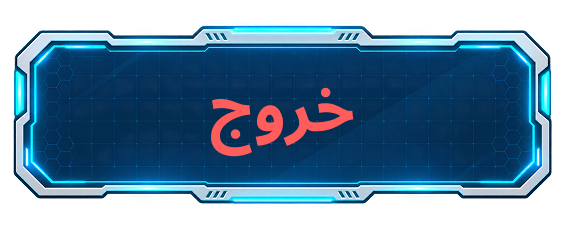
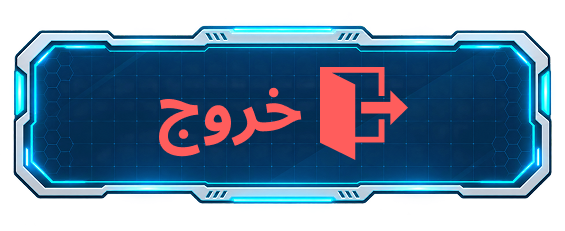
Use the supplied exit button on welcome screen

Changed region(s): [[0.2708, 0.2727, 0.7221, 0.697]]

diff --git a/src/components/GameWelcomeScreen/GameWelcomeScreen.css b/src/components/GameWelcomeScreen/GameWelcomeScreen.css
@@ -214,3 +214,30 @@
     max-height: 60vh;
   }
 }
+
+@media (max-width: 950px) {
+  .gws-footer {
+    width: 100%;
+    margin-bottom: max(12px, env(safe-area-inset-bottom));
+  }
+  .gws-footer-buttons {
+    width: 100%;
+    flex-wrap: nowrap;
+    gap: clamp(8px, 3vw, 18px);
+    padding-inline: 8px;
+  }
+  .gws-img-btn,
+  .gws-start-btn {
+    width: clamp(112px, 38vw, 190px);
+    min-width: 0;
+    height: auto;
+    aspect-ratio: 565 / 231;
+    flex: 0 1 190px;
+  }
+  .gws-img-btn img {
+    width: 100%;
+    height: 100%;
+    object-fit: contain;
+  }
+  .gws-start-btn { padding-bottom: 0; }
+}

diff --git a/src/components/WelcomeScreen/WelcomeScreen.jsx b/src/components/WelcomeScreen/WelcomeScreen.jsx
@@ -5,7 +5,7 @@ import QuestionCoin from '../../assets/QuestionCoin.png';
 import QuestionNumber from '../../assets/QuestionNumber.png';
 import description from '../../assets/description.png';
 import startButtonBg from '../../assets/start_transparent.png';
-import exitButtonBg from '../../assets/exit_transparent.png';
+import exitButtonBg from '../../assets/Exit1.png';
 import daddcoin from '../../assets/daddcoin.webp';
 
 const WelcomeScreen = ({ 
